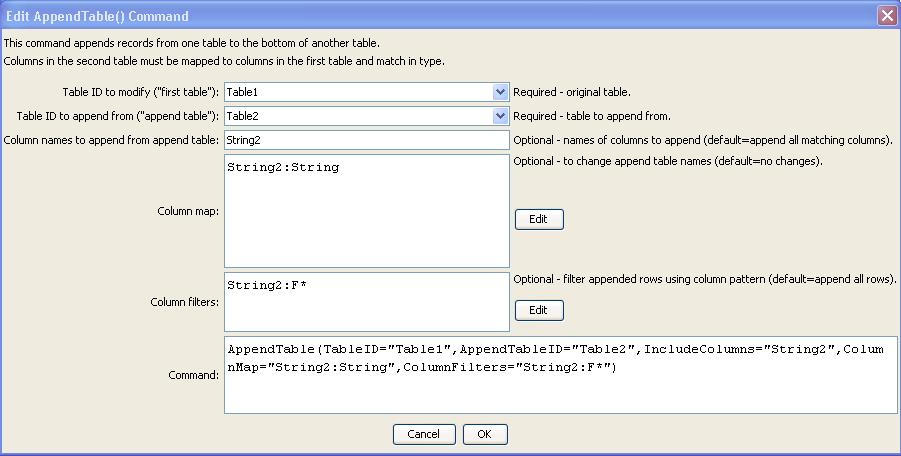
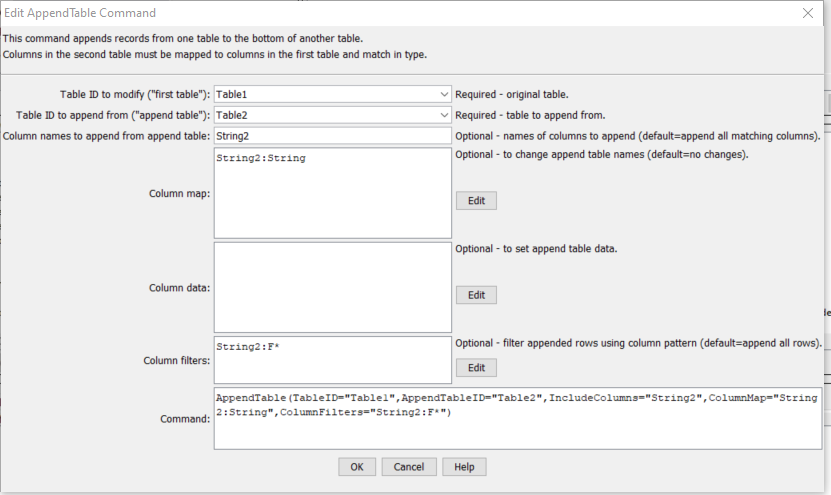
Add ColumnData to AppendTable command, issue #28
Also added isempty condition to DeleteTableRows.

Changed region(s): [[0.0, 0.0, 1.0, 1.0]]

diff --git a/mkdocs-project/docs/command-ref/AppendTable/AppendTable.md b/mkdocs-project/docs/command-ref/AppendTable/AppendTable.md
@@ -21,7 +21,7 @@ For appended rows:
 
 ## Command Editor ##
 
-The following dialog is used to edit the command and illustrates the syntax of the command
+The following dialog is used to edit the command and illustrates the syntax of the command.
 
 ![AppendTable](AppendTable.png)
 
@@ -44,8 +44,9 @@ Command Parameters
 | --------------|-----------------|----------------- |
 |`TableID`<br>**required**|The identifier for the original table, to which records will be appended.  Can be specified using processor `${Property}`.|None – must be specified.|
 |`AppendTableID`<br>**required**|The identifier for the table from which to append.  Can be specified using processor `${Property}`.|None – must be specified.|
-|`IncludeColumns`|The names of columns to append from `AppendTableID`, separated by commas.  See also` ColumnMap` to indicate how to map column names in the append table to the first table (necessary if the column names don’t match).|Append all of the columns from `AppendTableID` that match columns in `TableID`.|
-|`ColumnMap`|The map of the append table columns to the first table’s columns, necessary when column names are not the same:<br>`AppendColumn1:OriginalColumn1, AppendColumn2:OriginalColumn2`|If no map, append table column names in `IncludeColumns` must have the same name in the first table.|
+|`IncludeColumns`|The names of columns to append from `AppendTableID`, separated by commas.  The `${Property}` syntax is recognized.  See also` ColumnMap` to indicate how to map column names in the append table to the first table (necessary if the column names don’t match).|Append all of the columns from `AppendTableID` that match columns in `TableID`.|
+|`ColumnMap`|The map of the append table columns to the first table’s columns, necessary when column names are not the same:<br>`AppendColumn1:OriginalColumn1, AppendColumn2:OriginalColumn2`<br>The `${Property}` syntax is recognized. |If no map, append table column names in `IncludeColumns` must have the same name in the first table.|
+|`ColumnData`|Data values to set in appended rows:<br>`AppendColumn1:DataValue1, AppendColumn2:DataValue2`<br>This is useful when the appended columns need constant data inserted for each row, for example when transposing year from a column heading to year as data.  The `${Property}` syntax is recognized. |No additional data are used.|
 |`ColumnFilters`|Filters that limit the number of rows being appended from the append table, using the syntax:<br>`AppendColumn1:FilterPattern1, AppendColumn2:FilterPattern2`<br>Patterns can use `*` to indicate wildcards for matches.  Only string values can be checked (other data types are converted to strings for comparison).  Comparisons are case-independent.  All patterns must be matched in order to append the row.  In the future a command may be added to perform queries on tables, similar to SQL for databases.|No filtering.|
 
 ## Examples ##

diff --git a/mkdocs-project/docs/command-ref/DeleteTableRows/DeleteTableRows.md b/mkdocs-project/docs/command-ref/DeleteTableRows/DeleteTableRows.md
@@ -69,6 +69,7 @@ future). For strings, A is less than Z, etc.
 * `!=`
 * `contains` (only for string comparison)
 * `!contains` (only for string comparison)
+* `isempty` (only for string comparison, and does not require `Value` in condition)
 
 ## Examples ##
 
